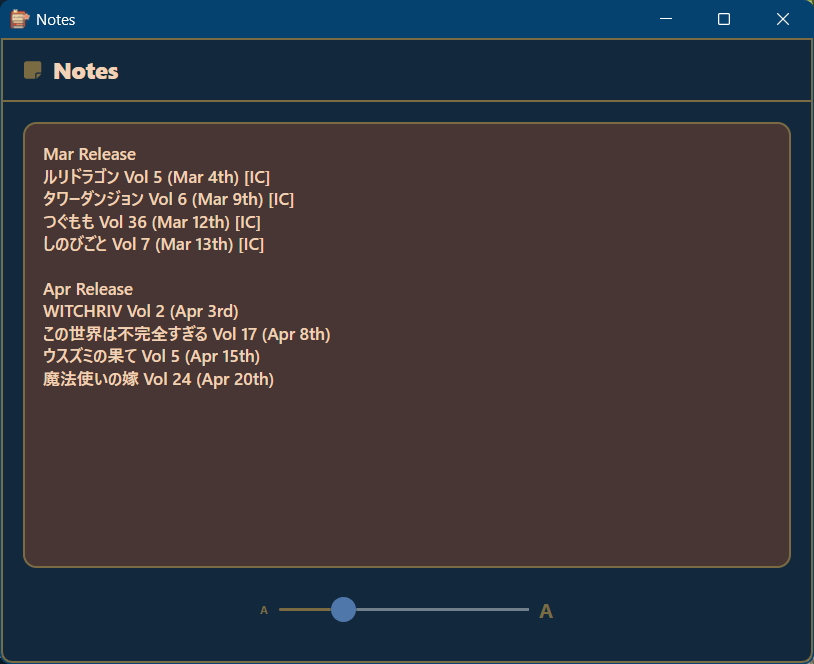
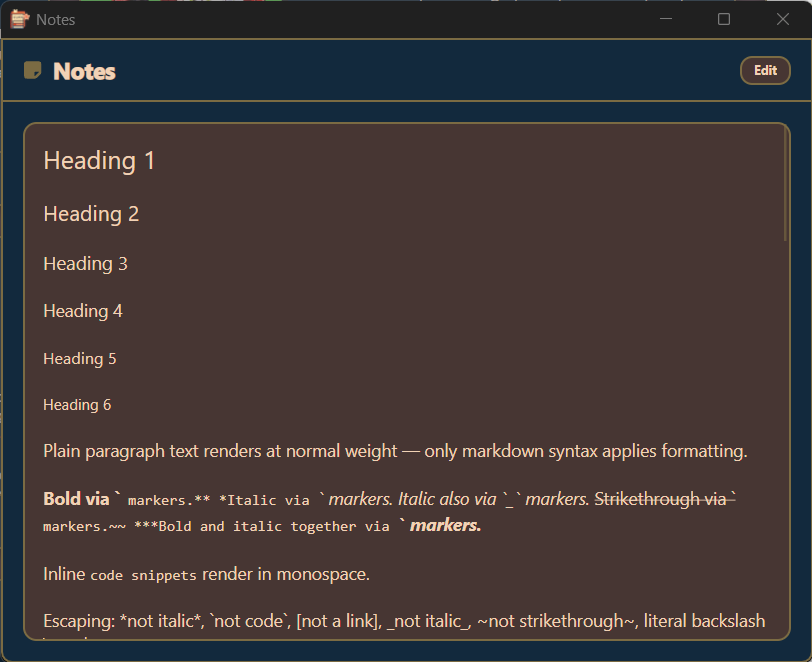
chore: bump Avalonia/NUnit deps and adapt to their new APIs
Updates Avalonia to 12.1.3, NUnit to 5.0.0, ReactiveUI.SourceGenerators to 4.2.0, and friends, switching `Bitmap.Save` calls to `PngBitmapEncoderOptions.Default` and `Observable.Switch` to its static form. Also adds a `RightContent` slot to `WindowHeader` so the Notes window hosts its Edit toggle inline, and refreshes the Notes/Stats app store screenshots.

diff --git a/Src/ViewModels/AddNewSeriesViewModel.cs b/Src/ViewModels/AddNewSeriesViewModel.cs
@@ -128,7 +128,7 @@ public sealed partial class AddNewSeriesViewModel : ViewModelBase, IDisposable
             })
             .DisposeWith(_disposables);
 
-        this.WhenAnyValue(x => x.TitleText)
+        Observable.Switch(this.WhenAnyValue(x => x.TitleText)
             .Select(x => x is null ? string.Empty : x.Trim())
             .Throttle(TimeSpan.FromMilliseconds(300), TsundokuSchedulers.TaskPool)
             .DistinctUntilChanged()
@@ -141,8 +141,7 @@ public sealed partial class AddNewSeriesViewModel : ViewModelBase, IDisposable
                 {
                     return await _aniList.GetPickerSuggestionsAsync(x, ct);
                 });
-            })
-            .Switch()
+            }))
             .ObserveOn(TsundokuSchedulers.MainThread)
             .Subscribe(items =>
             {

diff --git a/Src/Helpers/BitmapHelper.cs b/Src/Helpers/BitmapHelper.cs
@@ -144,7 +144,7 @@ public sealed class BitmapHelper
                 LOGGER.Debug("Created directory: {DirectoryPath}", directory);
             }
 
-            bitmap.Save(savePath, 100);
+            bitmap.Save(savePath, PngBitmapEncoderOptions.Default);
             LOGGER.Info("Successfully saved cover image to: {SavePath} from {Source}.", savePath, sourceIdentifier);
             return bitmap;
         }
@@ -182,7 +182,7 @@ public sealed class BitmapHelper
             try
             {
                 // Avalonia's Bitmap.Save(Stream) inherently saves as PNG.
-                image.Save(stream);
+                image.Save(stream, PngBitmapEncoderOptions.Default);
                 return stream.ToArray();
             }
             catch (Exception ex)

diff --git a/Src/Controls/WindowHeader.axaml.cs b/Src/Controls/WindowHeader.axaml.cs
@@ -1,4 +1,5 @@
 using Avalonia.Controls.Primitives;
+using Avalonia.Metadata;
 
 namespace Tsundoku.Controls;
 
@@ -20,5 +21,15 @@ public sealed class WindowHeader : TemplatedControl
     {
         get => GetValue(IconProperty);
         set => SetValue(IconProperty, value);
+    }
+
+    public static readonly StyledProperty<object?> RightContentProperty =
+        AvaloniaProperty.Register<WindowHeader, object?>(nameof(RightContent));
+
+    [Content]
+    public object? RightContent
+    {
+        get => GetValue(RightContentProperty);
+        set => SetValue(RightContentProperty, value);
     }
 }

diff --git a/Src/Models/User.cs b/Src/Models/User.cs
@@ -211,7 +211,7 @@ public sealed partial class User : ReactiveObject
                 {
                     using Bitmap originalBitmap = new Bitmap(coverPath);
                     Bitmap resizedBitMap = originalBitmap.CreateScaledBitmap(new PixelSize(LEFT_SIDE_CARD_WIDTH * BITMAP_SCALE, IMAGE_HEIGHT * BITMAP_SCALE), BitmapInterpolationMode.HighQuality);
-                    resizedBitMap.Save(coverPath, 100);
+                    resizedBitMap.Save(coverPath, PngBitmapEncoderOptions.Default);
                 }
             }
             userData[nameof(DataVersion)] = 1.9;

diff --git a/Src/Services/UserService.cs b/Src/Services/UserService.cs
@@ -550,7 +550,7 @@ public sealed partial class UserService : ReactiveObject, IUserService, IDisposa
         string savePath = isPngExtension ? fullCoverPath : Path.ChangeExtension(fullCoverPath, ".png");
         if (!isPngExtension || decoded.PixelSize.Width != targetWidth)
         {
-            decoded.Save(savePath, 100);
+            decoded.Save(savePath, PngBitmapEncoderOptions.Default);
             LOGGER.Debug("Saved {Title} cover at {Width}px to {Path}", series.Titles[TsundokuLanguage.Romaji], decoded.PixelSize.Width, savePath);
         }
         return decoded;

diff --git a/Src/Views/MainWindow.axaml.cs b/Src/Views/MainWindow.axaml.cs
@@ -224,7 +224,7 @@ KeyDown += async (s, e) =>
             var pixelSize = new PixelSize((int)Bounds.Width, (int)Bounds.Height);
             using var rtb = new RenderTargetBitmap(pixelSize, new Avalonia.Vector(96, 96));
             rtb.Render(this);
-            rtb.Save(finalScreenshotPath);
+            rtb.Save(finalScreenshotPath, PngBitmapEncoderOptions.Default);
 
             LOGGER.Info("Screenshot saved to: {Path}", finalScreenshotPath);
             await ToggleNotificationPopup($"Saved Screenshot for \"{baseFileNameWithoutExtension}\"");

diff --git a/Src/Helpers/ExtensionMethods.cs b/Src/Helpers/ExtensionMethods.cs
@@ -75,7 +75,7 @@ public static partial class ExtensionMethods
         }
 
         using RecyclableMemoryStream stream = BitmapHelper.StreamManager.GetStream(nameof(CloneBitmap));
-        source.Save(stream);
+        source.Save(stream, PngBitmapEncoderOptions.Default);
         stream.Position = 0;
         return new Bitmap(stream);
     }

diff --git a/Src/Converters/BitmapConverter.cs b/Src/Converters/BitmapConverter.cs
@@ -23,7 +23,7 @@ public static class BitmapConverter
         try
         {
             using MemoryStream stream = new();
-            bitmap.Save(stream, 100);
+            bitmap.Save(stream, PngBitmapEncoderOptions.Default);
             return stream.ToArray();
         }
         catch (Exception ex)
